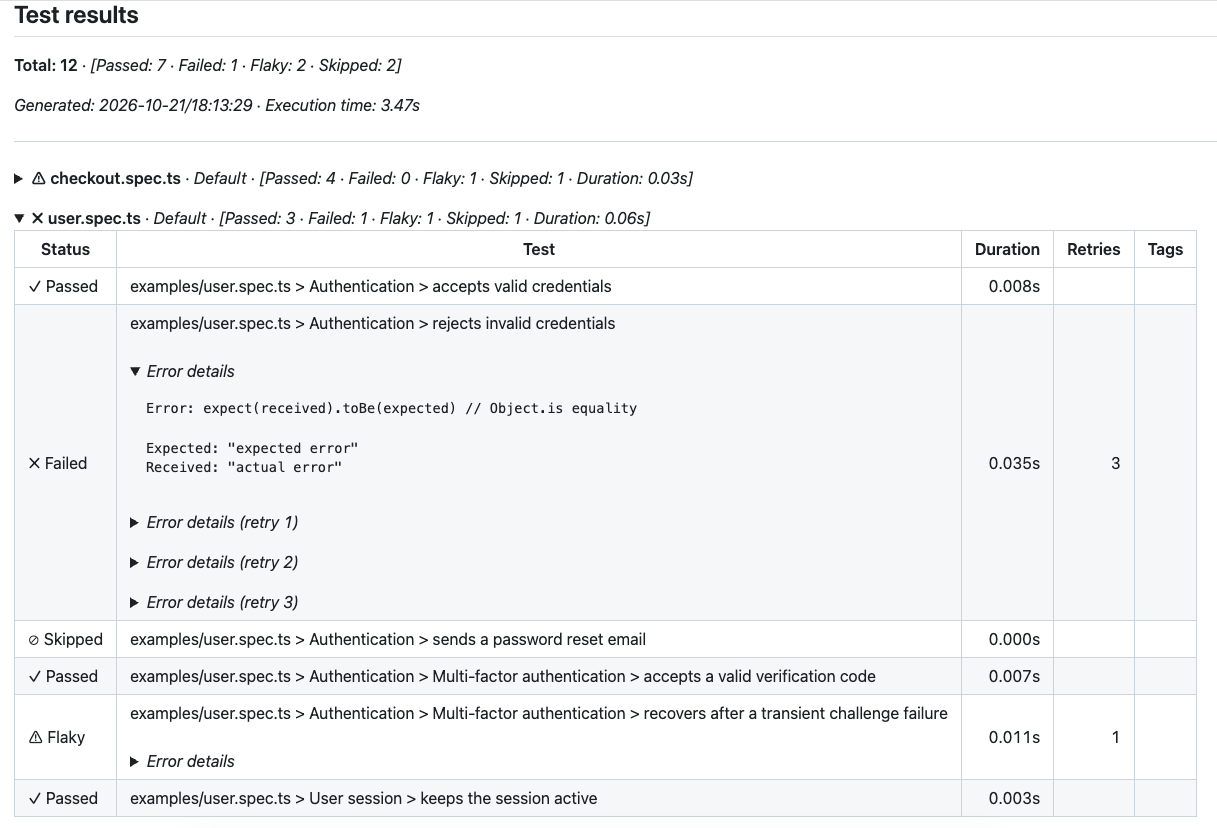
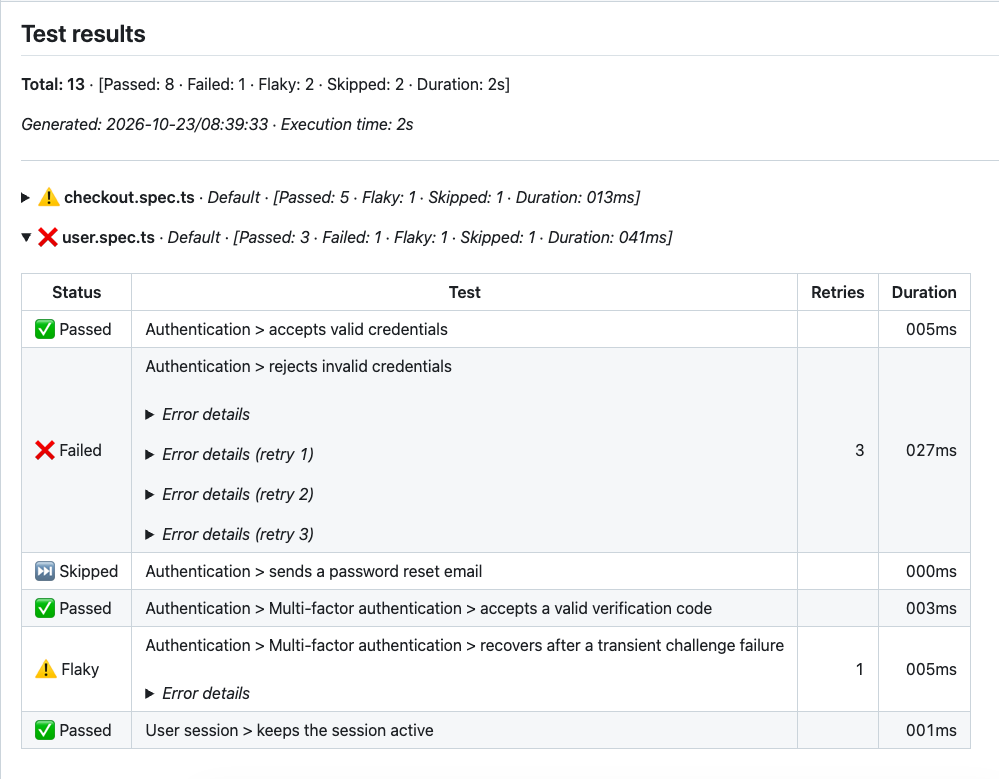
Update redme file

diff --git a/README.md b/README.md
@@ -1,8 +1,6 @@
-![GitHub Actions job summary showing test statuses, durations, retries, and collapsible error details](assets/reporter.png)
+# Playwright GitHub Actions Reporter
 
-In GitHub Actions, the reporter appends a test report to the job summary for every run outcome. The overall summary and each spec group show counts only for outcomes that occurred, plus the duration. Spec groups and test rows use ✅ passed, ❌ failed, ⚠ flaky, and ⏭ skipped status icons. Test rows include retries, tags (including attributes added with Playwright annotations as `key.value` tags) and collapsible error details.
-
-To preview the report locally, run `npx playwright test --config=playwright.example.config.ts`. The example tests are in `test_examples/` and include failing, skipped, and flaky cases to demonstrate their report output.
+![Example GitHub Actions job summary with test results grouped by spec](assets/reporter.png)
 
 ## Install
 
@@ -10,19 +8,80 @@ To preview the report locally, run `npx playwright test --config=playwright.exam
 npm install --save-dev @packageio/playwright-github-actions-reporter
 ```
 
-## Configure
+The package requires Node.js 18 or newer and `@playwright/test` 1.40 or newer.
 
-Add the reporter to `playwright.config.ts`:
+## Configure Playwright
+
+Add the reporter to your `playwright.config.ts`. Keep any other reporters you already use in the array:
 
 ```ts
-import { defineConfig } from '@playwright/test'
+import { defineConfig } from '@playwright/test';
 
 export default defineConfig({
 	reporter: [
 		['list'],
 		['@packageio/playwright-github-actions-reporter'],
 	],
-})
+});
 ```
 
-At the start of each run, the reporter prints its package name and version.
+## Use in GitHub Actions
+
+For example, with an npm project and a `playwright.config.ts` configured as above:
+
+```yaml
+name: Playwright tests
+
+on:
+  push:
+    branches: [main]
+  pull_request:
+
+jobs:
+  playwright:
+    runs-on: ubuntu-latest
+    steps:
+      - uses: actions/checkout@v4
+      - uses: actions/setup-node@v4
+        with:
+          node-version: 20
+          cache: npm
+      - run: npm ci
+      - run: npx playwright install --with-deps
+      - run: npx playwright test
+```
+
+No additional workflow permissions or reporter-specific action steps are needed.
+
+## What the report shows
+
+- Overall and per-file counts for passed, failed, flaky, and skipped tests. Counts are shown only for outcomes that occurred.
+- Test duration and retry count. Duration includes all attempts.
+- Playwright tags, such as `@smoke` (shown as `smoke`).
+- Test annotations and collapsible error details, including errors from retries.
+- File groups organized by Playwright project.
+
+The reporter prints its package name and version when a test run starts. Outside GitHub Actions, it does not write a summary file; run it locally to see the usual Playwright reporter output.
+
+## Tags and metadata
+
+Playwright tags appear in each test row. You can also show key/value metadata by adding an annotation whose description is a JSON array of objects with `key` and `value` fields:
+
+```ts
+import { test } from '@playwright/test';
+
+test('adds an item to the cart', {
+	tag: ['@smoke', '@cart'],
+	annotation: {
+		type: 'metadata',
+		description: JSON.stringify([
+			{ key: 'owner', value: 'checkout-team' },
+			{ key: 'component', value: 'cart' },
+		]),
+	},
+}, async ({ page }) => {
+	// test steps
+});
+```
+
+The report displays those values as `owner.checkout-team` and `component.cart`. Other annotations appear with the test, and HTTP(S) links in annotation descriptions are clickable.
